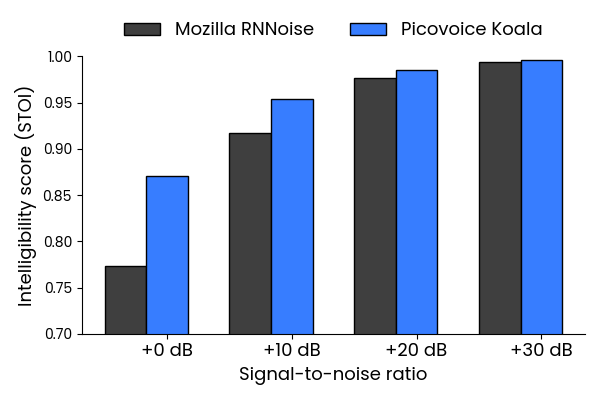
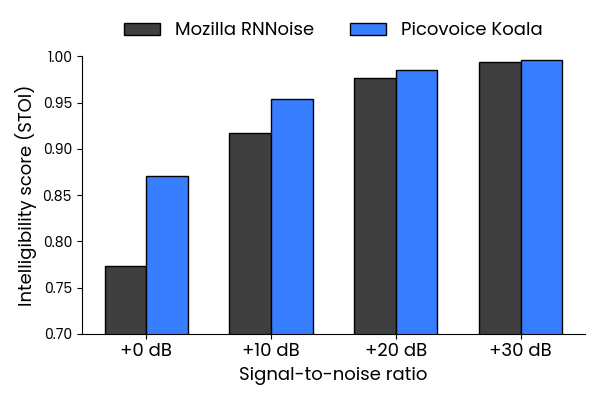
Fix Readme and xtick position in plot

diff --git a/plot_results.py b/plot_results.py
@@ -107,7 +107,7 @@ def plot_results(
             engine_results.append(results_json.get(metric, np.nan))
 
         if bar_plot:
-            positions = np.arange(len(snrs_db)) + (engine_index - len(Engines) / 2) * bar_width
+            positions = np.arange(len(snrs_db)) + (engine_index - len(sorted_engines) / 2) * bar_width
             ax.bar(
                 positions,
                 engine_results,

diff --git a/README.md b/README.md
@@ -18,7 +18,8 @@ monaural speech data across varying signal-to-noise ratios.
 The only currently implemented data set is the `synthetic, no reverb` part of the test set of the first installment of 
 the Microsoft deep noise suppression challenge at Interspeech 2020. It consists of 150 noisy files across various SNR 
 levels as well as their clean reference files. The data is available 
-[here](https://github.com/microsoft/DNS-Challenge/tree/interspeech2020/master/datasets/test_set/synthetic/no_reverb).
+[here](https://github.com/microsoft/DNS-Challenge/tree/interspeech2020/master/datasets/test_set/synthetic/no_reverb)
+within Microsoft's [DNS-Challenge repository](https://github.com/microsoft/DNS-Challenge).
 
 Either clone the whole repo and switch to the `interspeech2020/master` branch, or run the following commands in a new 
 directory to sparsely checkout the required files:
@@ -38,23 +39,19 @@ The `--data-folder` argument required for this benchmark needs to be set to
 
 ### Short-Term Objective Intelligibility (STOI)
 
-Word error rate (WER) is the ratio of edit distance between words in a reference transcript and the words in the output
-of the speech-to-text engine to the number of words in the reference transcript.
+The STOI metric is a simple intrusive metric that quantifies the similarity between the denoising output and the clean
+reference. The metric is a value between 0 and 1, where 1 means that the denoising result is exactly equal to the
+reference.
 
 ### Real Time Factor
 
 Real-time factor (RTF) is the ratio of CPU (processing) time to the length of the input speech file. A speech-to-text
-engine with lower RTF is more computationally efficient. We omit this metric for cloud-based engines.
+engine with lower RTF is more computationally efficient.
 
 ## Engines
 
-- [Amazon Transcribe](https://aws.amazon.com/transcribe/)
-- [Azure Speech-to-Text](https://azure.microsoft.com/en-us/services/cognitive-services/speech-to-text/)
-- [Google Speech-to-Text](https://cloud.google.com/speech-to-text)
-- [IBM Watson Speech-to-Text](https://www.ibm.com/ca-en/cloud/watson-speech-to-text)
-- [Mozilla DeepSpeech](https://github.com/mozilla/DeepSpeech)
-- [Picovoice Cheetah](https://picovoice.ai/)
-- [Picovoice Leopard](https://picovoice.ai/)
+- [Mozilla RNNoise](https://gitlab.xiph.org/xiph/rnnoise/)
+- [Picovoice Koala](https://picovoice.ai/)
 
 ## Usage
 
@@ -125,7 +122,7 @@ python3 benchmark.py \
 
 ### RTF
 
-Measurement is carried on an Ubuntu 20.04 machine with Intel CPU (`Intel(R) Core(TM) i5-6500 CPU @ 3.20GHz`), 64 GB of
+Measurement is carried on an Ubuntu 20.04 machine with Intel CPU (`Intel(R) Core(TM) i5-9400F CPU @ 2.90GHz`), 64 GB of
 RAM, and NVMe storage.
 
 |     Engine      | RTF  |
